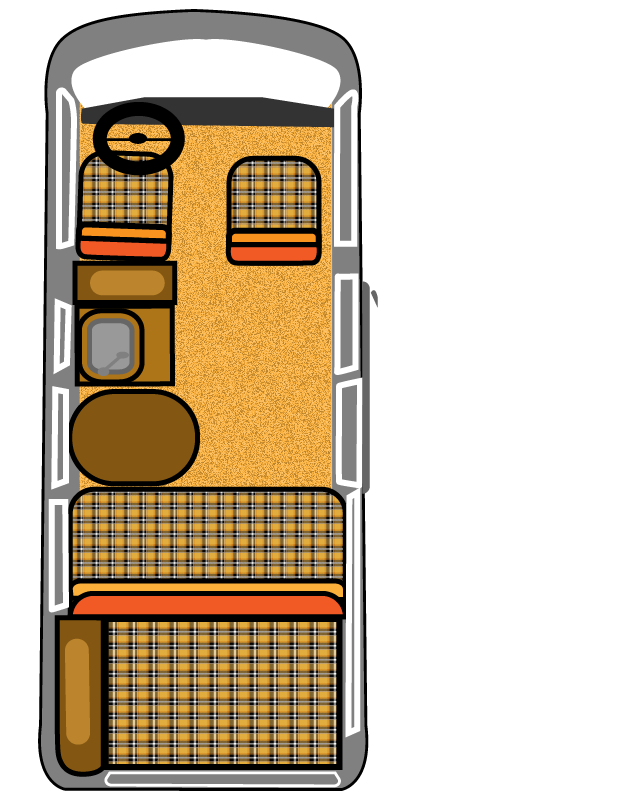
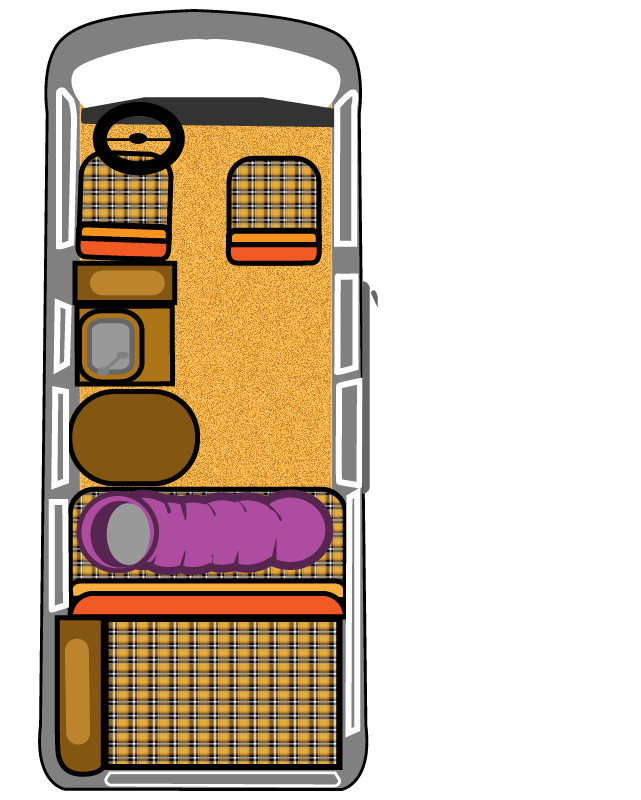
updated art and scene1
started adding in text information
and switching artwork when you eat.
and, somehow I need to connect this to the forest

Changed region(s): [[0.0936, 0.5938, 0.5304, 0.7188]]

diff --git a/final/scenes/Scene1.js b/final/scenes/Scene1.js
@@ -10,21 +10,57 @@ class Scene1 extends Phaser.Scene{
     create() {
       // Add background image
       this.add.image(0,0, 'camper').setOrigin(0,0);
+      this.add.image(160,405, 'icons').setFrame(0); // fork and spoon
 
       // Add interactive sprites
 
-      var cans = this.add.sprite(100,425, 'icons');
-      cans.setFrame(5).setScale(2);
+      cans = this.add.sprite(100,425, 'icons');
+      cans.setFrame(1);
 
-      var peppers = this.add.sprite(130,425, 'icons');
-      peppers.setFrame(6);
+      var peppers = this.add.sprite(155,425, 'icons');
+      peppers.setFrame(7);
 
-      var empty_can = this.add.sprite(150,450, 'icons');
-      empty_can.setFrame(7).setScale(2);
+/*      var empty_can = this.add.sprite(150,450, 'icons');
+      empty_can.setFrame(2).setScale(2);*/
 
-      var toilet_paper = this.add.sprite(400, 350, 'icons');
-      toilet_paper.setFrame(8).setScale(2);
+      var toilet_paper = this.add.sprite(170, 350, 'icons');
+      toilet_paper.setFrame(3);
 
+      var bucket = this.add.sprite(250, 300, 'icons');
+      bucket.setFrame(5);
+
+      var diary = this.add.sprite(270, 200, 'icons');
+        diary.setFrame(6);
+
+        show_text = this.add.text(300, 100, 'Should I eat something?');
+
+        show_text.setVisible(false);
+  }
+
+  update(){
+
+    cans.setInteractive({
+        useHandCursor: true
+    });
+
+    cans.on('pointerdown', function(){
+      this.add.text(250, 10, "I'm starving!");
+      cans.setFrame(2)}, this);
+
+    cans.on('pointerover', function(){
+        show_text.setVisible(true);
+      }, this);
+
+    cans.on('pointerout', function(){
+          show_text.setVisible(false);
+        }, this);
+
+
+
+
+//      bucket.on('pointerover', function(){
+//        this.add.text(250, 20)
+//      })
 
   }
 }

diff --git a/final/scenes/Preload.js b/final/scenes/Preload.js
@@ -11,8 +11,8 @@ class Preload extends Phaser.Scene{
           this.load.image('tiles', 'assets/Forest_Tileset.png');
           this.load.tilemapTiledJSON('mtn_map', 'assets/mtn_map.json');
           this.load.spritesheet('rosie', 'assets/rosie.png', { frameWidth: 32, frameHeight: 32, endFrame: 11});
-          this.load.spritesheet('icons', 'assets/game-icons.png', {frameWidth: 32, frameHeight: 32, endFrame: 11});
-
+          this.load.spritesheet('berries', 'assets/berries32x32.png', {frameWidth: 32, frameHeight: 32, endFrame: 4});
+          this.load.spritesheet('icons', 'assets/game-icons.png', {frameWidth: 64, frameHeight: 64, endFrame: 8});
   }
 
   create(){

diff --git a/final/scenes/Scene2.js b/final/scenes/Scene2.js
@@ -83,7 +83,7 @@ console.log("scene 2 loading...");
     // Collectables
 
     ripe_berries = this.physics.add.group({
-      key: 'food',
+      key: 'berries',
       frame: [0] ,
       frameQuantity: 10
 
@@ -93,7 +93,7 @@ console.log("scene 2 loading...");
     Phaser.Actions.RandomRectangle(ripe_berries.getChildren(), rect);
 
     var green_berries = this.physics.add.group({
-      key: 'food',
+      key: 'berries',
       frame: [1] ,
       frameQuantity: 20
 

diff --git a/final/game.js b/final/game.js
@@ -30,4 +30,7 @@ var ripe_berries;
 var berry_inventory = 0;
 var berry_text;
 
+var cans;
+var show_text;
+
 const game = new Phaser.Game(config);
